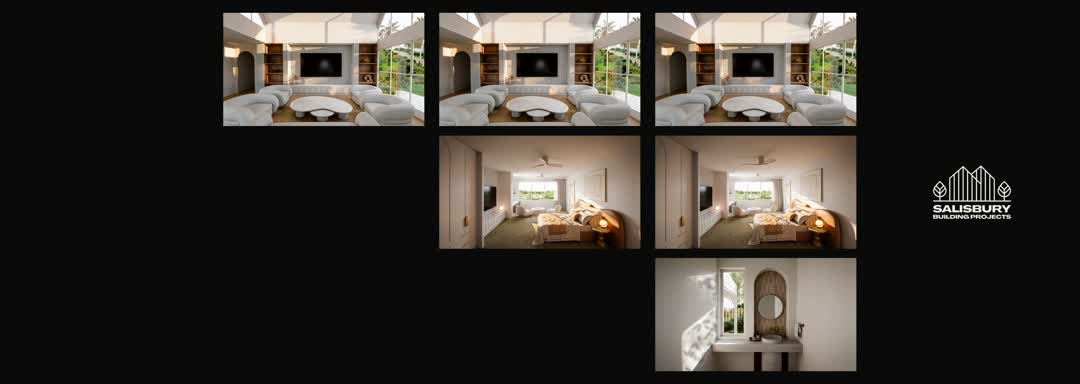
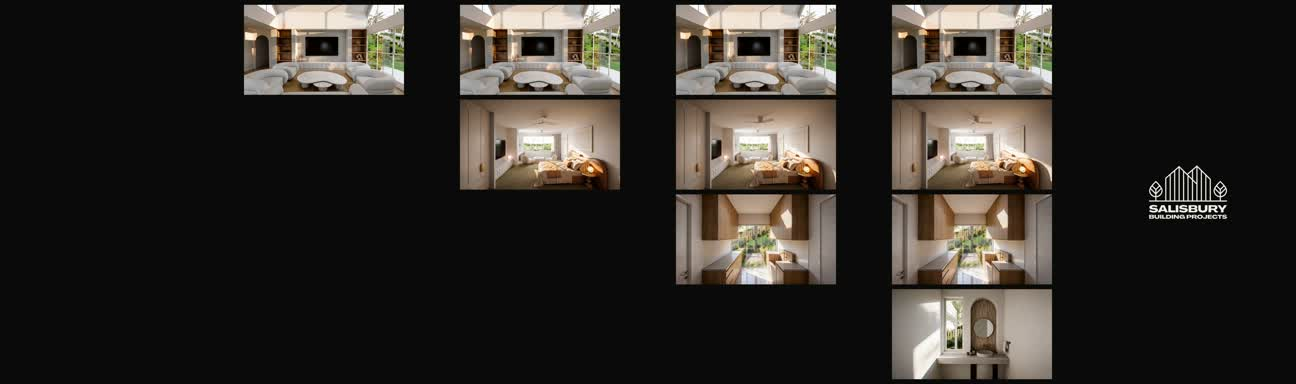
Salisbury reels v4: gate + laundry held at 16:9 (70 hf), 4 cards per reel, lofi music alts

diff --git a/projects/vista-render-cinemagraphs/work/build_reels.py b/projects/vista-render-cinemagraphs/work/build_reels.py
@@ -1,0 +1,33 @@
+"""Salisbury postcard reels v4. Hard click-ins spaced out (no pop animation, no dissolves, no fade to black),
+clips at 0.5x (work/slow2), click SFX per card, click+thud on the logo, royalty-free lofi bed (Pixabay) + soft wind.
+3 cards: Solis-reference geometry (x37 1006x566, y 64/678/1290). 4 cards: 800x450 centred, 24px gaps.
+usage: build_reels.py out.mp4 music.mp3 music_start clip1 clip2 clip3 [clip4]     0 credits."""
+import sys, subprocess
+out, music, mst, clips = sys.argv[1], sys.argv[2], sys.argv[3], sys.argv[4:]
+n = len(clips)
+if n == 3: W_, H_, X, YS, POPS, CUT = 1006, 566, 37, [64, 678, 1290], [0.5, 3.5, 6.5], 10.4
+else:      W_, H_, X, YS, POPS, CUT = 800, 450, 140, [24 + i * 474 for i in range(4)], [0.5, 3.0, 5.5, 8.0], 11.0
+TOT = CUT + 3.0
+WIND = "/Users/10xhunter/Downloads/traian1984-ambience-wind-blowing-through-trees-01-186986.mp3"
+inp = ["-f", "lavfi", "-i", f"color=c=0x0b0b0a:s=1080x1920:r=50:d={TOT}"]
+for c in clips: inp += ["-i", f"work/slow2/{c}.mp4"]
+inp += ["-loop", "1", "-framerate", "50", "-t", str(TOT), "-i", "assets/endcard_postcard_916.png",
+        "-ss", mst, "-i", music, "-i", WIND, "-i", "assets/sfx/click_1.wav", "-i", "assets/sfx/click_5.wav", "-i", "assets/sfx/thud_4.wav"]
+L, M, Wd, K, K5, T4 = n + 1, n + 2, n + 3, n + 4, n + 5, n + 6
+fc = []; prev = "0"
+for i in range(n):
+    fc.append(f"[{i+1}]scale={W_}:{H_}:flags=lanczos,unsharp=5:5:0.3,setpts=PTS-STARTPTS+{POPS[i]}/TB[c{i}]")
+    fc.append(f"[{prev}][c{i}]overlay={X}:{YS[i]}:eof_action=repeat:enable='between(t,{POPS[i]},{CUT})'[o{i}]"); prev = f"o{i}"
+fc.append(f"[{prev}][{L}]overlay=0:0:enable='gte(t,{CUT})',format=yuv420p[v]")
+fc.append(f"[{M}]atrim=0:{TOT},asetpts=PTS-STARTPTS,afade=in:st=0:d=0.6,afade=out:st={TOT-2.2}:d=2.2,loudnorm=I=-16:TP=-2[m]")
+fc.append(f"[{Wd}]atrim=0:{TOT},asetpts=PTS-STARTPTS,volume=0.12,afade=out:st={TOT-2.2}:d=2.2[w]")
+fc.append(f"[{K}]asplit={n}" + "".join(f"[k{i}]" for i in range(n)))
+mix = "[m][w]"
+for i in range(n):
+    d = int(POPS[i] * 1000); fc.append(f"[k{i}]adelay={d}|{d},volume=0.55[s{i}]"); mix += f"[s{i}]"
+d = int(CUT * 1000)
+fc.append(f"[{K5}]adelay={d}|{d},volume=0.7[l1]"); fc.append(f"[{T4}]adelay={d}|{d},volume=0.6[l2]")
+fc.append(f"{mix}[l1][l2]amix=inputs={n+4}:normalize=0:duration=first,alimiter=limit=0.89[a]")
+subprocess.run(["ffmpeg", "-v", "error", "-y", *inp, "-filter_complex", ";".join(fc), "-map", "[v]", "-map", "[a]",
+    "-c:v", "libx264", "-crf", "16", "-preset", "slow", "-c:a", "aac", "-b:a", "256k", "-ar", "48000",
+    "-movflags", "+faststart", "-t", str(TOT), out], check=True)

diff --git a/projects/vista-render-cinemagraphs/JOB.md b/projects/vista-render-cinemagraphs/JOB.md
@@ -3,7 +3,7 @@ client: salisbury   # per Hunter 2026-10-21
 address: "Vista" (render set, 12 renders)
 opened: 2026-10-20
 status: intake         # intake → generating → review → delivered
-cost: { credits: 0, hf_credits: 315, aud: 0 }   # derived from ## Ledger
+cost: { credits: 0, hf_credits: 385, aud: 0 }   # derived from ## Ledger
 ---
 
 # Job — Vista renders → cinemagraphs
@@ -20,7 +20,9 @@ Source: 12 developer renders pasted by Hunter (2000×1368) → `inputs/1–12.jp
 | 6 | Kitchen: floor sun stripes creep, garden | video (Seedance 2.5 720p 5s, no loop) + local 1080p50 | review | |
 | 4 | Living: palms outside, ceiling sun patches | video (Seedance 2.5 720p 5s, no loop) + local 1080p50 | review | |
 | 1 | Exterior: palm fronds + their shadows on garage/drive | video (Seedance 2.5 720p 5s, no loop) + local 1080p50 | review | |
-| 2,3,7,9,10,12 | gate, office, laundry, towel nook, gym, ensuite | — | reserve | weaker motion or mirror/signage risk |
+| 2 | Gate: palms + driveway shadows, Vista sign held | video (Seedance 2.5 720p 5s 16:9) | in reels | 9:16 attempt failed; 16:9 retry held |
+| 7 | Laundry: garden through window | video (Seedance 2.5 720p 5s 16:9) | in reels | 9:16 attempt failed; 16:9 retry held (low motion) |
+| 3,9,10,12 | office, towel nook, gym, ensuite | — | reserve | weaker motion or mirror risk |
 
 ## Log
 
@@ -33,6 +35,7 @@ Source: 12 developer renders pasted by Hunter (2000×1368) → `inputs/1–12.jp
 - 2026-10-21 Hunter: skip gate/laundry, 2 reels × 3 clips (0 credits). Clips slowed 0.7× (setpts 1.4 + minterpolate 50 fps, from the 720 sources), powder dapple re-run on the slowed clip with sway periods stretched 1.4×. 608px vertical slice per clip → 1080×1920, 1s dissolves, fade in/out, 18.7s, silent. Reel 1 Arrival: exterior → hallway → kitchen. Reel 2 Inside: living → bedroom → powder v3. Script `work/build_reels.sh` → `reels/`. No text or end card yet (Salisbury branding unknown). Awaiting Hunter review.
 - 2026-10-21 Hunter: no dissolves, no fade to black; add music + end card; then "similar idea to" `~/Downloads/Solis Postcard Post.mp4`. Rebuilt as postcard reels matched to that reference: ink #0b0b0a background, three 16:9 clips stacked full width (x37, 1006×566 at y 64/678/1290, measured off the reference), hard pop-ins at 0.5/1.2/1.9s, each plays from its pop, hard cut at 7.4s to the Salisbury logo tinted bone #efece4 (400px), 10.0s total. No cropping needed: the 16:9 clips stay whole. Music: Reel 1 AURENZA 'Found my Way', Reel 2 AVE 'Meet Me In The Dark' (both from ~/Downloads, intros), plus wind-through-trees bed at 0.18, loudnorm −14 LUFS, audio-only fade out. ⚠ Both tracks are commercial: IG may mute them, so swap in the in-app track for posting. Script `work/build_reels.sh`.
 - 2026-10-21 Hunter rejected the eased pop-in animation (`work/postcard.py`, kept for reference). v3: hard click-ins spaced 3s apart (0.5 / 3.5 / 6.5s) so each clip breathes, clips re-slowed to 0.5× (`work/slow2`, powder dapple re-run with SLOW=2), all hold to 10.4s, hard cut to logo, 13.4s total. SFX from `use-definitions/sfx-lib-v2`: click_1 per card, click_5 + thud_4 on the logo. Slower music from ~/Downloads (no credits): Reel 1 AVE 'Meet Me In The Dark' from 1.5s (skips the silent lead-in), Reel 2 ANOTR 'Relax My Eyes' intro. Magnific Lyria custom track priced at 80 cr each but not approved. Both songs are commercial, so IG may mute them.
+- 2026-10-21 Hunter: chill lofi not upbeat; powder without the black dots (= v2, no dapple); retry the other 2 clips (yes, 70 hf). Gate + laundry regenerated at 16:9 from 1920×1080 heroes → both HELD (Vista sign intact). Lesson: Seedance i2v holds the source at 16:9 from a full-width hero; 9:16 from a narrow upscaled crop re-imagines. Reels v4 = 4 cards each (800×450, x140, 24px gaps), click-ins 0.5/3.0/5.5/8.0s, logo 11.0s, 14.0s. Reel 1: gate, exterior, hallway, kitchen. Reel 2: living, bedroom, laundry, powder v2. Music: 5 Pixabay lofi tracks downloaded (`assets/music/`, licence noted); defaults Reel 1 Lay Back, Reel 2 Chill Downtempo; every reel × track combo in `reels/alt/`. Builder `work/build_reels.py`. Total 315 + 70 = 385 hf.
 
 ## Ledger
 
@@ -46,3 +49,5 @@ Source: 12 developer renders pasted by Hunter (2000×1368) → `inputs/1–12.jp
 - 2026-10-20 | 35 hf | 05_powder_v2 seedance_2_5 (gen-runner)
 - 2026-10-21 | 35 hf | 02_gate seedance_2_5 (gen-runner)
 - 2026-10-21 | 35 hf | 07_laundry seedance_2_5 (gen-runner)
+- 2026-10-21 | 35 hf | 02_gate_169 seedance_2_5 (gen-runner)
+- 2026-10-21 | 35 hf | 07_laundry_169 seedance_2_5 (gen-runner)

diff --git a/projects/vista-render-cinemagraphs/assets/music/LICENSE.md b/projects/vista-render-cinemagraphs/assets/music/LICENSE.md
@@ -1,0 +1,6 @@
+Royalty-free tracks from Pixabay (Pixabay Content License, free for commercial use, no attribution required), downloaded 2026-10-21 at Hunter's request:
+- grumpynora-lay-back-619255.mp3 · https://pixabay.com/music/lofi-lay-back-619255/
+- atlasaudio-chill-downtempo-613513.mp3 · https://pixabay.com/music/lofi-chill-downtempo-613513/
+- sonican-lo-fi-music-loop-sentimental-jazzy-love-473154.mp3 · https://pixabay.com/music/lofi-lo-fi-music-loop-sentimental-jazzy-love-473154/
+- the_mountain-simple-piano-618231.mp3 · https://pixabay.com/music/lofi-simple-piano-618231/
+- atlasaudio-chill-lounge-613497.mp3 · https://pixabay.com/music/lofi-chill-lounge-613497/
